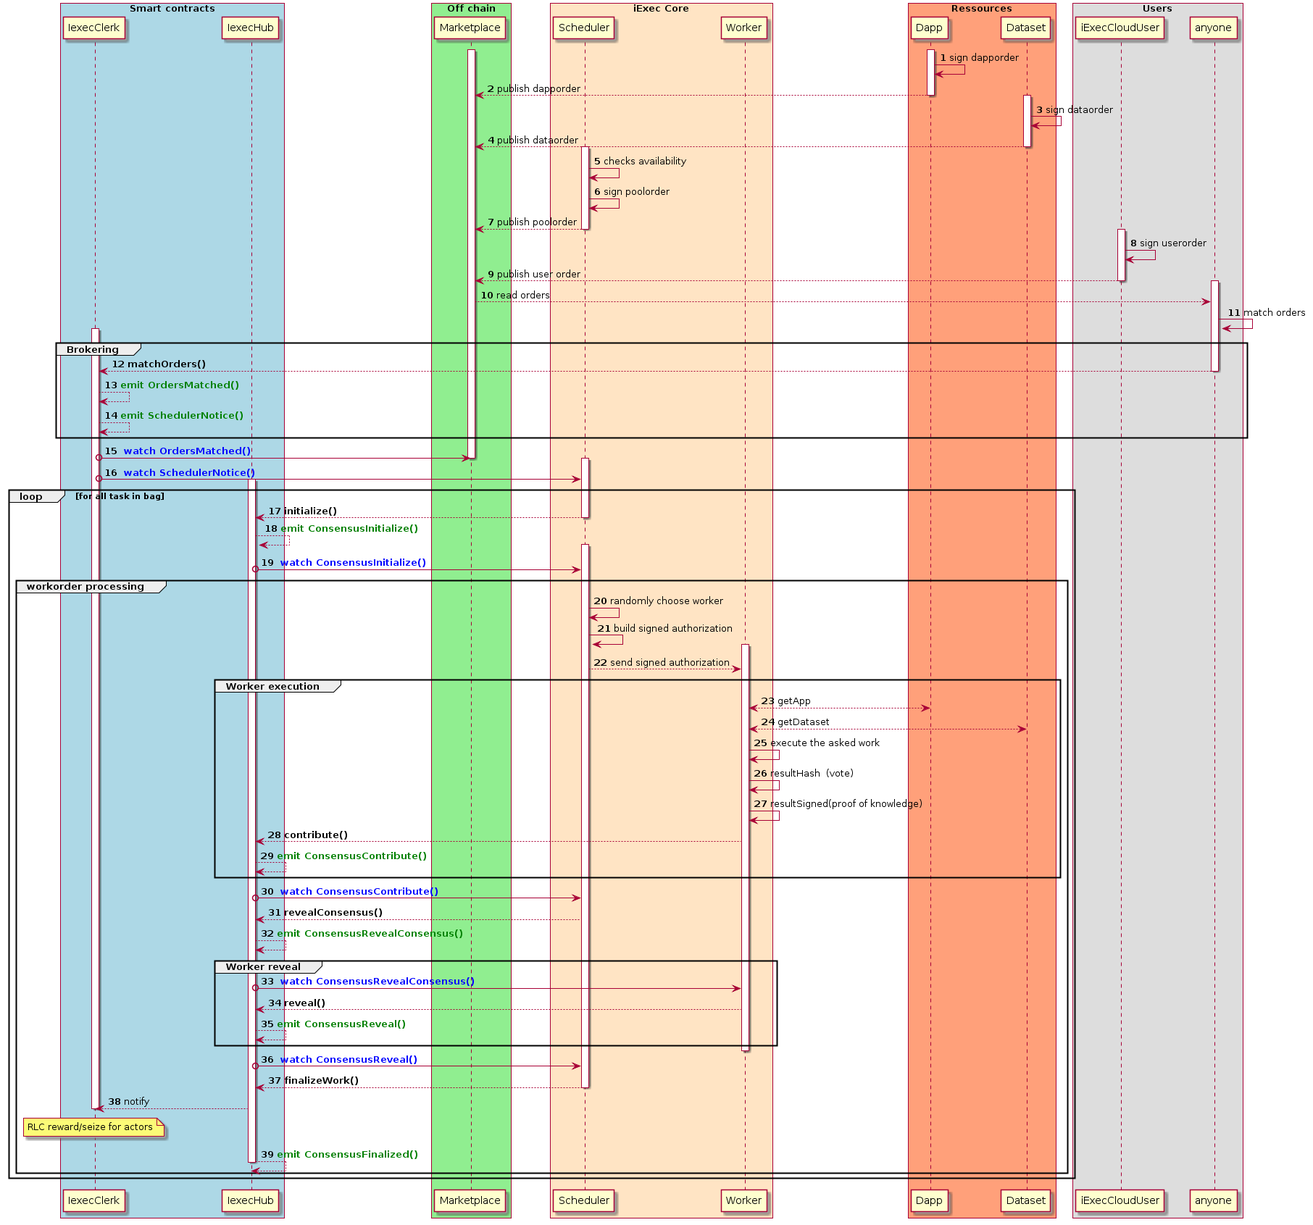
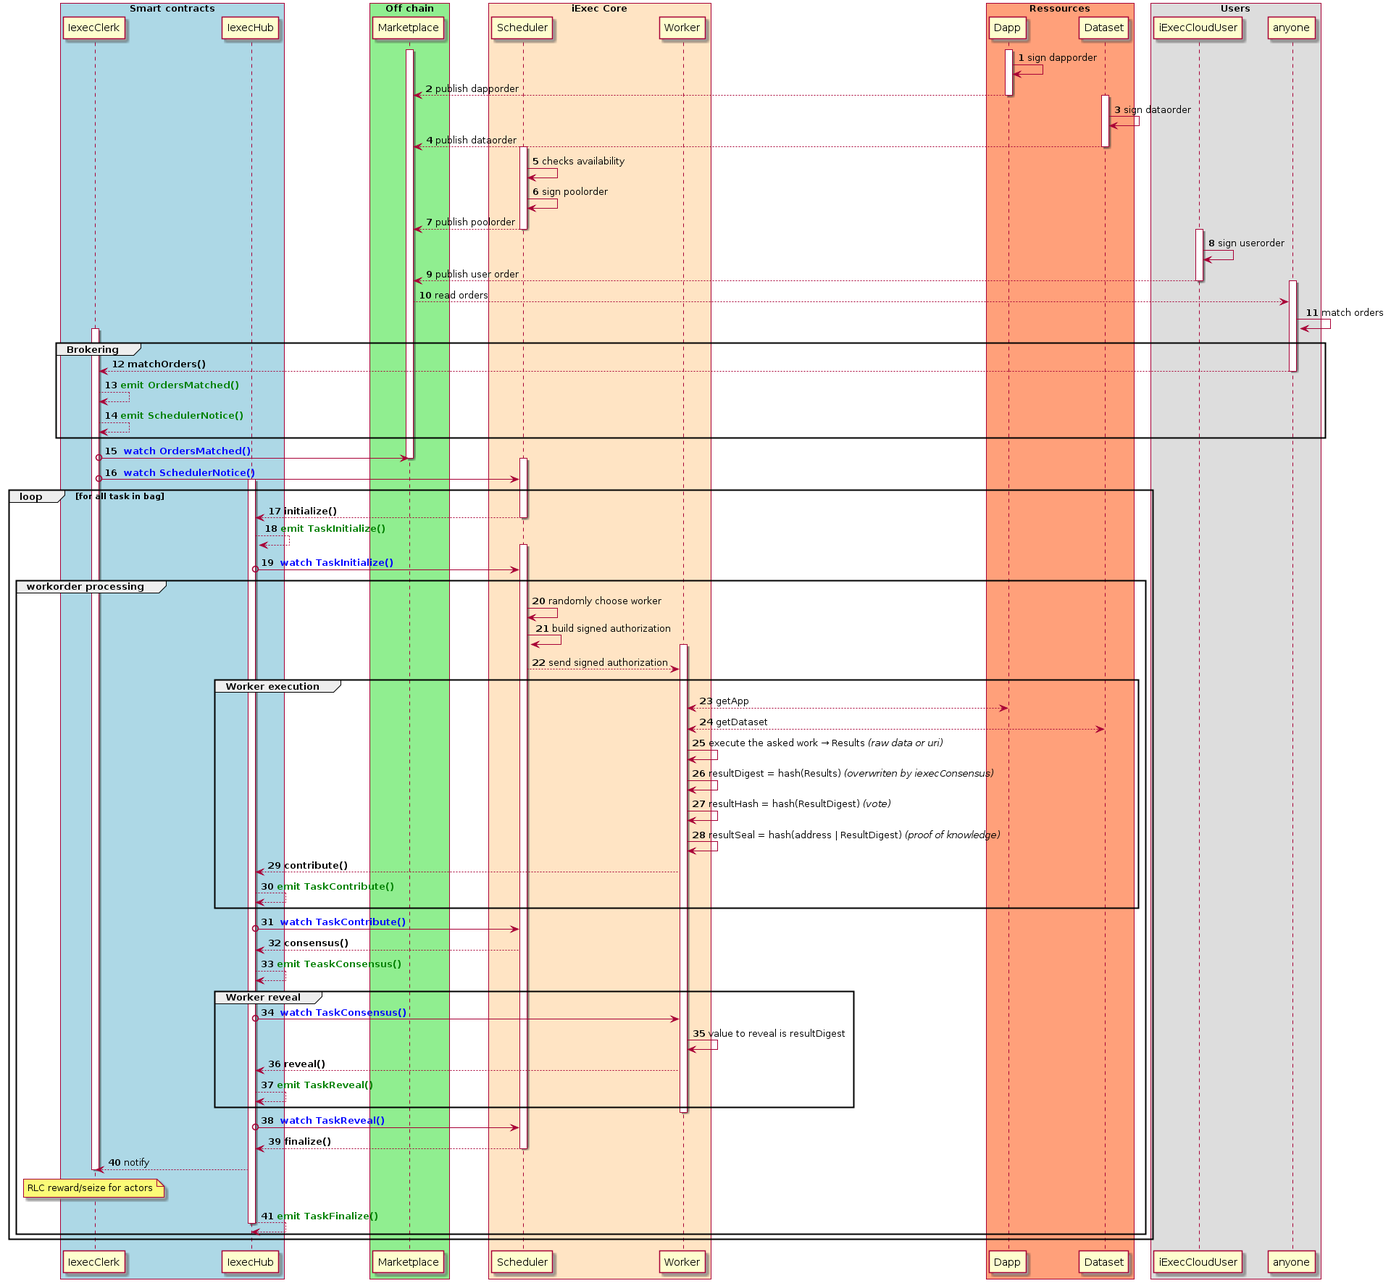
updated UML

diff --git a/test/000_fullchain-beta.js b/test/000_fullchain-beta.js
@@ -67,8 +67,8 @@ contract('IexecHub', async (accounts) => {
 		console.log("# web3 version:", web3.version);
 
 		workers = [
-			{ address: poolWorker1, enclave: sgxEnclave, raw: "iExec the wanderer" },
-			{ address: poolWorker2, enclave: sgxEnclave, raw: "iExec the wanderer" },
+			{ address: poolWorker1, enclave: sgxEnclave,             raw: "iExec the wanderer" },
+			{ address: poolWorker2, enclave: constants.NULL.ADDRESS, raw: "iExec the wanderer" },
 		];
 		consensus = odbtools.hashResult("iExec the wanderer");
 
@@ -331,14 +331,14 @@ contract('IexecHub', async (accounts) => {
 	});
 
 	it("[LOG] show order", async () => {
-		console.log("=== dapporder ===");
-		console.log(dapporder);
-		console.log("=== dataorder ===");
-		console.log(dataorder);
-		console.log("=== poolorder ===");
-		console.log(poolorder);
-		console.log("=== userorder ===");
-		console.log(userorder);
+		// console.log("=== dapporder ===");
+		// console.log(dapporder);
+		// console.log("=== dataorder ===");
+		// console.log(dataorder);
+		// console.log("=== poolorder ===");
+		// console.log(poolorder);
+		// console.log("=== userorder ===");
+		// console.log(userorder);
 	});
 
 	/***************************************************************************
@@ -360,41 +360,31 @@ contract('IexecHub', async (accounts) => {
 	 ***************************************************************************/
 	it("[Setup] Escrow deposit", async () => {
 		txsMined = await Promise.all([
-			IexecClerkInstance.deposit(1000, { from: poolScheduler }),
-			IexecClerkInstance.deposit(1000, { from: poolWorker1   }),
-			IexecClerkInstance.deposit(1000, { from: poolWorker2   }),
-			IexecClerkInstance.deposit(1000, { from: poolWorker3   }),
-			IexecClerkInstance.deposit(1000, { from: poolWorker4   }),
-			IexecClerkInstance.deposit(1000, { from: user          }),
+			IexecClerkInstanceBeta.methods.deposit(1000).send({ from: poolScheduler, gasLimit: constants.AMOUNT_GAS_PROVIDED }),
+			IexecClerkInstanceBeta.methods.deposit(1000).send({ from: poolWorker1,   gasLimit: constants.AMOUNT_GAS_PROVIDED }),
+			IexecClerkInstanceBeta.methods.deposit(1000).send({ from: poolWorker2,   gasLimit: constants.AMOUNT_GAS_PROVIDED }),
+			IexecClerkInstanceBeta.methods.deposit(1000).send({ from: poolWorker3,   gasLimit: constants.AMOUNT_GAS_PROVIDED }),
+			IexecClerkInstanceBeta.methods.deposit(1000).send({ from: poolWorker4,   gasLimit: constants.AMOUNT_GAS_PROVIDED }),
+			IexecClerkInstanceBeta.methods.deposit(1000).send({ from: user,          gasLimit: constants.AMOUNT_GAS_PROVIDED }),
 		]);
-		assert.isBelow(txsMined[0].receipt.gasUsed, constants.AMOUNT_GAS_PROVIDED, "should not use all gas");
-		assert.isBelow(txsMined[1].receipt.gasUsed, constants.AMOUNT_GAS_PROVIDED, "should not use all gas");
-		assert.isBelow(txsMined[2].receipt.gasUsed, constants.AMOUNT_GAS_PROVIDED, "should not use all gas");
-		assert.isBelow(txsMined[3].receipt.gasUsed, constants.AMOUNT_GAS_PROVIDED, "should not use all gas");
-		assert.isBelow(txsMined[4].receipt.gasUsed, constants.AMOUNT_GAS_PROVIDED, "should not use all gas");
-		assert.isBelow(txsMined[5].receipt.gasUsed, constants.AMOUNT_GAS_PROVIDED, "should not use all gas");
-
-		// UNSAFE TEST: Promise all doest not handle events correctly
-		/*
-		events = extractEvents(txsMined[0], IexecClerkInstance.address, "Deposit");
-		assert.equal(events[0].args.owner,  poolScheduler, "check deposit recipient");
-		assert.equal(events[0].args.amount, 1000,          "check deposit amount");
-		events = extractEvents(txsMined[1], IexecClerkInstance.address, "Deposit");
-		assert.equal(events[0].args.owner,  poolWorker1,   "check deposit recipient");
-		assert.equal(events[0].args.amount, 1000,          "check deposit amount");
-		events = extractEvents(txsMined[2], IexecClerkInstance.address, "Deposit");
-		assert.equal(events[0].args.owner,  poolWorker2,   "check deposit recipient");
-		assert.equal(events[0].args.amount, 1000,          "check deposit amount");
-		events = extractEvents(txsMined[3], IexecClerkInstance.address, "Deposit");
-		assert.equal(events[0].args.owner,  poolWorker3,   "check deposit recipient");
-		assert.equal(events[0].args.amount, 1000,          "check deposit amount");
-		events = extractEvents(txsMined[4], IexecClerkInstance.address, "Deposit");
-		assert.equal(events[0].args.owner,  poolWorker4,   "check deposit recipient");
-		assert.equal(events[0].args.amount, 1000,          "check deposit amount");
-		events = extractEvents(txsMined[5], IexecClerkInstance.address, "Deposit");
-		assert.equal(events[0].args.owner,  user,          "check deposit recipient");
-		assert.equal(events[0].args.amount, 1000,          "check deposit amount");
-		*/
+		assert.isBelow(txsMined[0].gasUsed, constants.AMOUNT_GAS_PROVIDED, "should not use all gas");
+		assert.isBelow(txsMined[1].gasUsed, constants.AMOUNT_GAS_PROVIDED, "should not use all gas");
+		assert.isBelow(txsMined[2].gasUsed, constants.AMOUNT_GAS_PROVIDED, "should not use all gas");
+		assert.isBelow(txsMined[3].gasUsed, constants.AMOUNT_GAS_PROVIDED, "should not use all gas");
+		assert.isBelow(txsMined[4].gasUsed, constants.AMOUNT_GAS_PROVIDED, "should not use all gas");
+		assert.isBelow(txsMined[5].gasUsed, constants.AMOUNT_GAS_PROVIDED, "should not use all gas");
+		assert.equal(txsMined[0].events.Deposit.returnValues.owner,  poolScheduler, "check deposit recipient");
+		assert.equal(txsMined[0].events.Deposit.returnValues.amount, 1000,          "check deposit amount"   );
+		assert.equal(txsMined[1].events.Deposit.returnValues.owner,  poolWorker1,   "check deposit recipient");
+		assert.equal(txsMined[1].events.Deposit.returnValues.amount, 1000,          "check deposit amount"   );
+		assert.equal(txsMined[2].events.Deposit.returnValues.owner,  poolWorker2,   "check deposit recipient");
+		assert.equal(txsMined[2].events.Deposit.returnValues.amount, 1000,          "check deposit amount"   );
+		assert.equal(txsMined[3].events.Deposit.returnValues.owner,  poolWorker3,   "check deposit recipient");
+		assert.equal(txsMined[3].events.Deposit.returnValues.amount, 1000,          "check deposit amount"   );
+		assert.equal(txsMined[4].events.Deposit.returnValues.owner,  poolWorker4,   "check deposit recipient");
+		assert.equal(txsMined[4].events.Deposit.returnValues.amount, 1000,          "check deposit amount"   );
+		assert.equal(txsMined[5].events.Deposit.returnValues.owner,  user,          "check deposit recipient");
+		assert.equal(txsMined[5].events.Deposit.returnValues.amount, 1000,          "check deposit amount"   );
 	});
 
 	/***************************************************************************
@@ -528,7 +518,6 @@ contract('IexecHub', async (accounts) => {
 	 ***************************************************************************/
 	it("[Market] Check deal", async () => {
 		deal = await IexecClerkInstanceBeta.methods.viewDeal(dealid).call();
-		console.log(deal);
 		assert.equal    (       deal.dapp.pointer, DappInstance.address,   "check deal (deal.dapp.pointer)"        );
 		assert.equal    (       deal.dapp.owner,   dappProvider,           "check deal (deal.dapp.owner)"          );
 		assert.equal    (Number(deal.dapp.price),  dapporder.dappprice,    "check deal (deal.dapp.price)"          );
@@ -589,9 +578,11 @@ contract('IexecHub', async (accounts) => {
 	it(">> initialize", async () => {
 		txMined = await IexecHubInstanceBeta.methods.initialize(dealid, 0).send({ from: poolScheduler, gasLimit: constants.AMOUNT_GAS_PROVIDED });
 		assert.isBelow(txMined.gasUsed, constants.AMOUNT_GAS_PROVIDED, "should not use all gas");
-		assert.equal(txMined.events.TaskInitialize.returnValues.pool, PoolInstance.address, "error");
 
-		taskid = txMined.events.TaskInitialize.returnValues.taskid;
+		taskid = web3.utils.soliditySha3({ t: 'bytes32', v: dealid }, { t: 'uint256', v: 0 });
+
+		assert.equal(txMined.events.TaskInitialize.returnValues.taskid, taskid,               "error");
+		assert.equal(txMined.events.TaskInitialize.returnValues.pool,   PoolInstance.address, "error");
 	});
 
 	/***************************************************************************
@@ -675,11 +666,11 @@ contract('IexecHub', async (accounts) => {
 		{
 			contribution = await IexecHubInstanceBeta.methods.viewContribution(taskid, w.address).call();
 			assert.equal(contribution.status,           constants.ContributionStatusEnum.CONTRIBUTED, "check contribution (contribution.status)"          );
-			assert.equal(contribution.resultHash,       results[w.address].hash,         "check contribution (contribution.resultHash)"      );
-			assert.equal(contribution.resultSeal,       results[w.address].seal,         "check contribution (contribution.resultSeal)"      );
-			assert.equal(contribution.enclaveChallenge, w.enclave,                       "check contribution (contribution.enclaveChallenge)");
-			assert.equal(contribution.score,            0,                               "check contribution (contribution.score)"           );
-			assert.equal(contribution.weight,           1,                               "check contribution (contribution.weight)"          );
+			assert.equal(contribution.resultHash,       results[w.address].hash,                      "check contribution (contribution.resultHash)"      );
+			assert.equal(contribution.resultSeal,       results[w.address].seal,                      "check contribution (contribution.resultSeal)"      );
+			assert.equal(contribution.enclaveChallenge, w.enclave,                                    "check contribution (contribution.enclaveChallenge)");
+			assert.equal(contribution.score,            0,                                            "check contribution (contribution.score)"           );
+			assert.equal(contribution.weight,           1,                                            "check contribution (contribution.weight)"          );
 		}
 	});
 
@@ -776,8 +767,8 @@ contract('IexecHub', async (accounts) => {
 	it(">> finalizeWork", async () => {
 		txMined = await IexecHubInstanceBeta.methods.finalize(taskid, web3.utils.utf8ToHex("aResult")).send({ from: poolScheduler, gasLimit: constants.AMOUNT_GAS_PROVIDED });
 		assert.isBelow(txMined.gasUsed, constants.AMOUNT_GAS_PROVIDED, "should not use all gas");
-		assert.equal(txMined.events.TaskFinalized.returnValues.taskid,  taskid,                          "check consensus (taskid)");
-		assert.equal(txMined.events.TaskFinalized.returnValues.results, web3.utils.utf8ToHex("aResult"), "check consensus (results)");
+		assert.equal(txMined.events.TaskFinalize.returnValues.taskid,  taskid,                          "check consensus (taskid)");
+		assert.equal(txMined.events.TaskFinalize.returnValues.results, web3.utils.utf8ToHex("aResult"), "check consensus (results)");
 
 		// TODO: check 2 events by w.address for w in workers
 		// How to retreive events from the IexecClerk (5 rewards and 1 seize)
@@ -791,7 +782,7 @@ contract('IexecHub', async (accounts) => {
 		assert.equal    (       task.status,                   constants.TaskStatusEnum.COMPLETED, "check task (task.status)"           );
 		assert.equal    (       task.dealid,                   dealid,                             "check task (task.dealid)"           );
 		assert.equal    (Number(task.idx),                     0,                                  "check task (task.idx)"              );
-		assert.equal    (       task.consensusValue,           consensus.hash,        "check task (task.consensusValue)"   );
+		assert.equal    (       task.consensusValue,           consensus.hash,                     "check task (task.consensusValue)"   );
 		assert.isAbove  (Number(task.consensusDeadline),       0,                                  "check task (task.consensusDeadline)");
 		assert.isAbove  (Number(task.revealDeadline),          0,                                  "check task (task.revealDeadline)"   );
 		assert.equal    (Number(task.revealCounter),           workers.length,                     "check task (task.revealCounter)"    );

diff --git a/test/byFunctions/IexecHub/EIP1154/callback.js b/test/byFunctions/IexecHub/EIP1154/callback.js
@@ -391,7 +391,7 @@ contract('IexecHub', async (accounts) => {
 	it("Finalize - No callback", async () => {
 		txMined = await IexecHubInstance.finalize(tasks[1], web3.utils.utf8ToHex("aResult 1"), { from: poolScheduler });
 		assert.isBelow(txMined.receipt.gasUsed, constants.AMOUNT_GAS_PROVIDED, "should not use all gas");
-		events = extractEvents(txMined, IexecHubInstance.address, "TaskFinalized");
+		events = extractEvents(txMined, IexecHubInstance.address, "TaskFinalize");
 		assert.equal(events[0].args.taskid,  tasks[1],                          "check taskid");
 		assert.equal(events[0].args.results, web3.utils.utf8ToHex("aResult 1"), "check consensus (results)");
 	});
@@ -399,7 +399,7 @@ contract('IexecHub', async (accounts) => {
 	it("Finalize - Invalid callback", async () => {
 		txMined = await IexecHubInstance.finalize(tasks[2], web3.utils.utf8ToHex("aResult 2"), { from: poolScheduler });
 		assert.isBelow(txMined.receipt.gasUsed, constants.AMOUNT_GAS_PROVIDED, "should not use all gas");
-		events = extractEvents(txMined, IexecHubInstance.address, "TaskFinalized");
+		events = extractEvents(txMined, IexecHubInstance.address, "TaskFinalize");
 		assert.equal(events[0].args.taskid,  tasks[2],                          "check taskid");
 		assert.equal(events[0].args.results, web3.utils.utf8ToHex("aResult 2"), "check consensus (results)");
 	});
@@ -409,7 +409,7 @@ contract('IexecHub', async (accounts) => {
 
 		txMined = await IexecHubInstance.finalize(tasks[3], web3.utils.utf8ToHex("aResult 3"), { from: poolScheduler });
 		assert.isBelow(txMined.receipt.gasUsed, constants.AMOUNT_GAS_PROVIDED, "should not use all gas");
-		events = extractEvents(txMined, IexecHubInstance.address, "TaskFinalized");
+		events = extractEvents(txMined, IexecHubInstance.address, "TaskFinalize");
 		assert.equal(events[0].args.taskid,  tasks[3],                          "check taskid");
 		assert.equal(events[0].args.results, web3.utils.utf8ToHex("aResult 3"), "check consensus (results)");
 

diff --git a/test/010_fullchain-bot.js b/test/010_fullchain-bot.js
@@ -548,7 +548,7 @@ contract('IexecHub', async (accounts) => {
 		);
 		assert.isBelow(txMined.receipt.gasUsed, constants.AMOUNT_GAS_PROVIDED, "should not use all gas");
 
-		events = extractEvents(txMined, IexecHubInstance.address, "TaskFinalized");
+		events = extractEvents(txMined, IexecHubInstance.address, "TaskFinalize");
 		assert.equal(events[0].args.taskid,  tasks[0].taskid,                   "check consensus (taskid)");
 		assert.equal(events[0].args.results, web3.utils.utf8ToHex("aResult 1"), "check consensus (results)");
 
@@ -610,7 +610,7 @@ contract('IexecHub', async (accounts) => {
 		);
 		assert.isBelow(txMined.receipt.gasUsed, constants.AMOUNT_GAS_PROVIDED, "should not use all gas");
 
-		events = extractEvents(txMined, IexecHubInstance.address, "TaskFinalized");
+		events = extractEvents(txMined, IexecHubInstance.address, "TaskFinalize");
 		assert.equal(events[0].args.taskid,  tasks[1].taskid,                   "check consensus (taskid)");
 		assert.equal(events[0].args.results, web3.utils.utf8ToHex("aResult 2"), "check consensus (results)");
 
@@ -672,7 +672,7 @@ contract('IexecHub', async (accounts) => {
 		);
 		assert.isBelow(txMined.receipt.gasUsed, constants.AMOUNT_GAS_PROVIDED, "should not use all gas");
 
-		events = extractEvents(txMined, IexecHubInstance.address, "TaskFinalized");
+		events = extractEvents(txMined, IexecHubInstance.address, "TaskFinalize");
 		assert.equal(events[0].args.taskid,  tasks[2].taskid,                   "check consensus (taskid)");
 		assert.equal(events[0].args.results, web3.utils.utf8ToHex("aResult 3"), "check consensus (results)");
 

diff --git a/test/011_fullchain-bot-dualPool.js b/test/011_fullchain-bot-dualPool.js
@@ -594,7 +594,7 @@ contract('IexecHub', async (accounts) => {
 		);
 		assert.isBelow(txMined.receipt.gasUsed, constants.AMOUNT_GAS_PROVIDED, "should not use all gas");
 
-		events = extractEvents(txMined, IexecHubInstance.address, "TaskFinalized");
+		events = extractEvents(txMined, IexecHubInstance.address, "TaskFinalize");
 		assert.equal(events[0].args.taskid,  tasks[0].taskid,                   "check consensus (taskid)");
 		assert.equal(events[0].args.results, web3.utils.utf8ToHex("aResult 1"), "check consensus (results)");
 
@@ -656,7 +656,7 @@ contract('IexecHub', async (accounts) => {
 		);
 		assert.isBelow(txMined.receipt.gasUsed, constants.AMOUNT_GAS_PROVIDED, "should not use all gas");
 
-		events = extractEvents(txMined, IexecHubInstance.address, "TaskFinalized");
+		events = extractEvents(txMined, IexecHubInstance.address, "TaskFinalize");
 		assert.equal(events[0].args.taskid,  tasks[1].taskid,                   "check consensus (taskid)");
 		assert.equal(events[0].args.results, web3.utils.utf8ToHex("aResult 2"), "check consensus (results)");
 
@@ -718,7 +718,7 @@ contract('IexecHub', async (accounts) => {
 		);
 		assert.isBelow(txMined.receipt.gasUsed, constants.AMOUNT_GAS_PROVIDED, "should not use all gas");
 
-		events = extractEvents(txMined, IexecHubInstance.address, "TaskFinalized");
+		events = extractEvents(txMined, IexecHubInstance.address, "TaskFinalize");
 		assert.equal(events[0].args.taskid,  tasks[2].taskid,                   "check consensus (taskid)");
 		assert.equal(events[0].args.results, web3.utils.utf8ToHex("aResult 3"), "check consensus (results)");
 

diff --git a/test/byFunctions/IexecHub/finalize.js b/test/byFunctions/IexecHub/finalize.js
@@ -409,7 +409,7 @@ contract('IexecHub', async (accounts) => {
 	it("[6.1] Finalize - Correct (full)", async () => {
 		txMined = await IexecHubInstance.finalize(tasks[1], web3.utils.utf8ToHex("aResult 1"), { from: poolScheduler });
 		assert.isBelow(txMined.receipt.gasUsed, constants.AMOUNT_GAS_PROVIDED, "should not use all gas");
-		events = extractEvents(txMined, IexecHubInstance.address, "TaskFinalized");
+		events = extractEvents(txMined, IexecHubInstance.address, "TaskFinalize");
 		assert.equal(events[0].args.taskid,  tasks[1],                          "check taskid");
 		assert.equal(events[0].args.results, web3.utils.utf8ToHex("aResult 1"), "check consensus (results)");
 	});
@@ -433,7 +433,7 @@ contract('IexecHub', async (accounts) => {
 	it("[6.3] Finalize - Correct (partial - wait)", async () => {
 		txMined = await IexecHubInstance.finalize(tasks[3], web3.utils.utf8ToHex("aResult 3"), { from: poolScheduler });
 		assert.isBelow(txMined.receipt.gasUsed, constants.AMOUNT_GAS_PROVIDED, "should not use all gas");
-		events = extractEvents(txMined, IexecHubInstance.address, "TaskFinalized");
+		events = extractEvents(txMined, IexecHubInstance.address, "TaskFinalize");
 		assert.equal(events[0].args.taskid,  tasks[3],                          "check taskid");
 		assert.equal(events[0].args.results, web3.utils.utf8ToHex("aResult 3"), "check consensus (results)");
 	});

diff --git a/test/000_fullchain.js b/test/000_fullchain.js
@@ -73,8 +73,8 @@ contract('IexecHub', async (accounts) => {
 		console.log("# web3 version:", web3.version);
 
 		workers = [
-			{ address: poolWorker1, enclave: sgxEnclave, raw: "iExec the wanderer" },
-			{ address: poolWorker2, enclave: sgxEnclave, raw: "iExec the wanderer" },
+			{ address: poolWorker1, enclave: sgxEnclave,             raw: "iExec the wanderer" },
+			{ address: poolWorker2, enclave: constants.NULL.ADDRESS, raw: "iExec the wanderer" },
 		];
 		consensus = odbtools.hashResult("iExec the wanderer");
 
@@ -841,7 +841,7 @@ contract('IexecHub', async (accounts) => {
 		);
 		assert.isBelow(txMined.receipt.gasUsed, constants.AMOUNT_GAS_PROVIDED, "should not use all gas");
 
-		events = extractEvents(txMined, IexecHubInstance.address, "TaskFinalized");
+		events = extractEvents(txMined, IexecHubInstance.address, "TaskFinalize");
 		assert.equal(events[0].args.taskid,  taskid,                          "check consensus (taskid)");
 		assert.equal(events[0].args.results, web3.utils.utf8ToHex("aResult"), "check consensus (results)");
 

diff --git a/test/001_fullchain-1workers.js b/test/001_fullchain-1workers.js
@@ -492,7 +492,7 @@ contract('IexecHub', async (accounts) => {
 		);
 		assert.isBelow(txMined.receipt.gasUsed, constants.AMOUNT_GAS_PROVIDED, "should not use all gas");
 
-		events = extractEvents(txMined, IexecHubInstance.address, "TaskFinalized");
+		events = extractEvents(txMined, IexecHubInstance.address, "TaskFinalize");
 		assert.equal(events[0].args.taskid,  taskid,                          "check consensus (taskid)");
 		assert.equal(events[0].args.results, web3.utils.utf8ToHex("aResult"), "check consensus (results)");
 

diff --git a/test/002_fullchain-2workers.js b/test/002_fullchain-2workers.js
@@ -493,7 +493,7 @@ contract('IexecHub', async (accounts) => {
 		);
 		assert.isBelow(txMined.receipt.gasUsed, constants.AMOUNT_GAS_PROVIDED, "should not use all gas");
 
-		events = extractEvents(txMined, IexecHubInstance.address, "TaskFinalized");
+		events = extractEvents(txMined, IexecHubInstance.address, "TaskFinalize");
 		assert.equal(events[0].args.taskid,  taskid,                          "check consensus (taskid)");
 		assert.equal(events[0].args.results, web3.utils.utf8ToHex("aResult"), "check consensus (results)");
 

diff --git a/test/003_fullchain-3workers.js b/test/003_fullchain-3workers.js
@@ -494,7 +494,7 @@ contract('IexecHub', async (accounts) => {
 		);
 		assert.isBelow(txMined.receipt.gasUsed, constants.AMOUNT_GAS_PROVIDED, "should not use all gas");
 
-		events = extractEvents(txMined, IexecHubInstance.address, "TaskFinalized");
+		events = extractEvents(txMined, IexecHubInstance.address, "TaskFinalize");
 		assert.equal(events[0].args.taskid,  taskid,                          "check consensus (taskid)");
 		assert.equal(events[0].args.results, web3.utils.utf8ToHex("aResult"), "check consensus (results)");
 

diff --git a/test/004_fullchain-4workers.js b/test/004_fullchain-4workers.js
@@ -495,7 +495,7 @@ contract('IexecHub', async (accounts) => {
 		);
 		assert.isBelow(txMined.receipt.gasUsed, constants.AMOUNT_GAS_PROVIDED, "should not use all gas");
 
-		events = extractEvents(txMined, IexecHubInstance.address, "TaskFinalized");
+		events = extractEvents(txMined, IexecHubInstance.address, "TaskFinalize");
 		assert.equal(events[0].args.taskid,  taskid,                          "check consensus (taskid)");
 		assert.equal(events[0].args.results, web3.utils.utf8ToHex("aResult"), "check consensus (results)");
 

diff --git a/test/005_fullchain-3workers-1error.js b/test/005_fullchain-3workers-1error.js
@@ -494,7 +494,7 @@ contract('IexecHub', async (accounts) => {
 		);
 		assert.isBelow(txMined.receipt.gasUsed, constants.AMOUNT_GAS_PROVIDED, "should not use all gas");
 
-		events = extractEvents(txMined, IexecHubInstance.address, "TaskFinalized");
+		events = extractEvents(txMined, IexecHubInstance.address, "TaskFinalize");
 		assert.equal(events[0].args.taskid,  taskid,                          "check consensus (taskid)");
 		assert.equal(events[0].args.results, web3.utils.utf8ToHex("aResult"), "check consensus (results)");
 

diff --git a/test/006_fullchain-4workers-1error.js b/test/006_fullchain-4workers-1error.js
@@ -495,7 +495,7 @@ contract('IexecHub', async (accounts) => {
 		);
 		assert.isBelow(txMined.receipt.gasUsed, constants.AMOUNT_GAS_PROVIDED, "should not use all gas");
 
-		events = extractEvents(txMined, IexecHubInstance.address, "TaskFinalized");
+		events = extractEvents(txMined, IexecHubInstance.address, "TaskFinalize");
 		assert.equal(events[0].args.taskid,  taskid,                          "check consensus (taskid)");
 		assert.equal(events[0].args.results, web3.utils.utf8ToHex("aResult"), "check consensus (results)");
 
